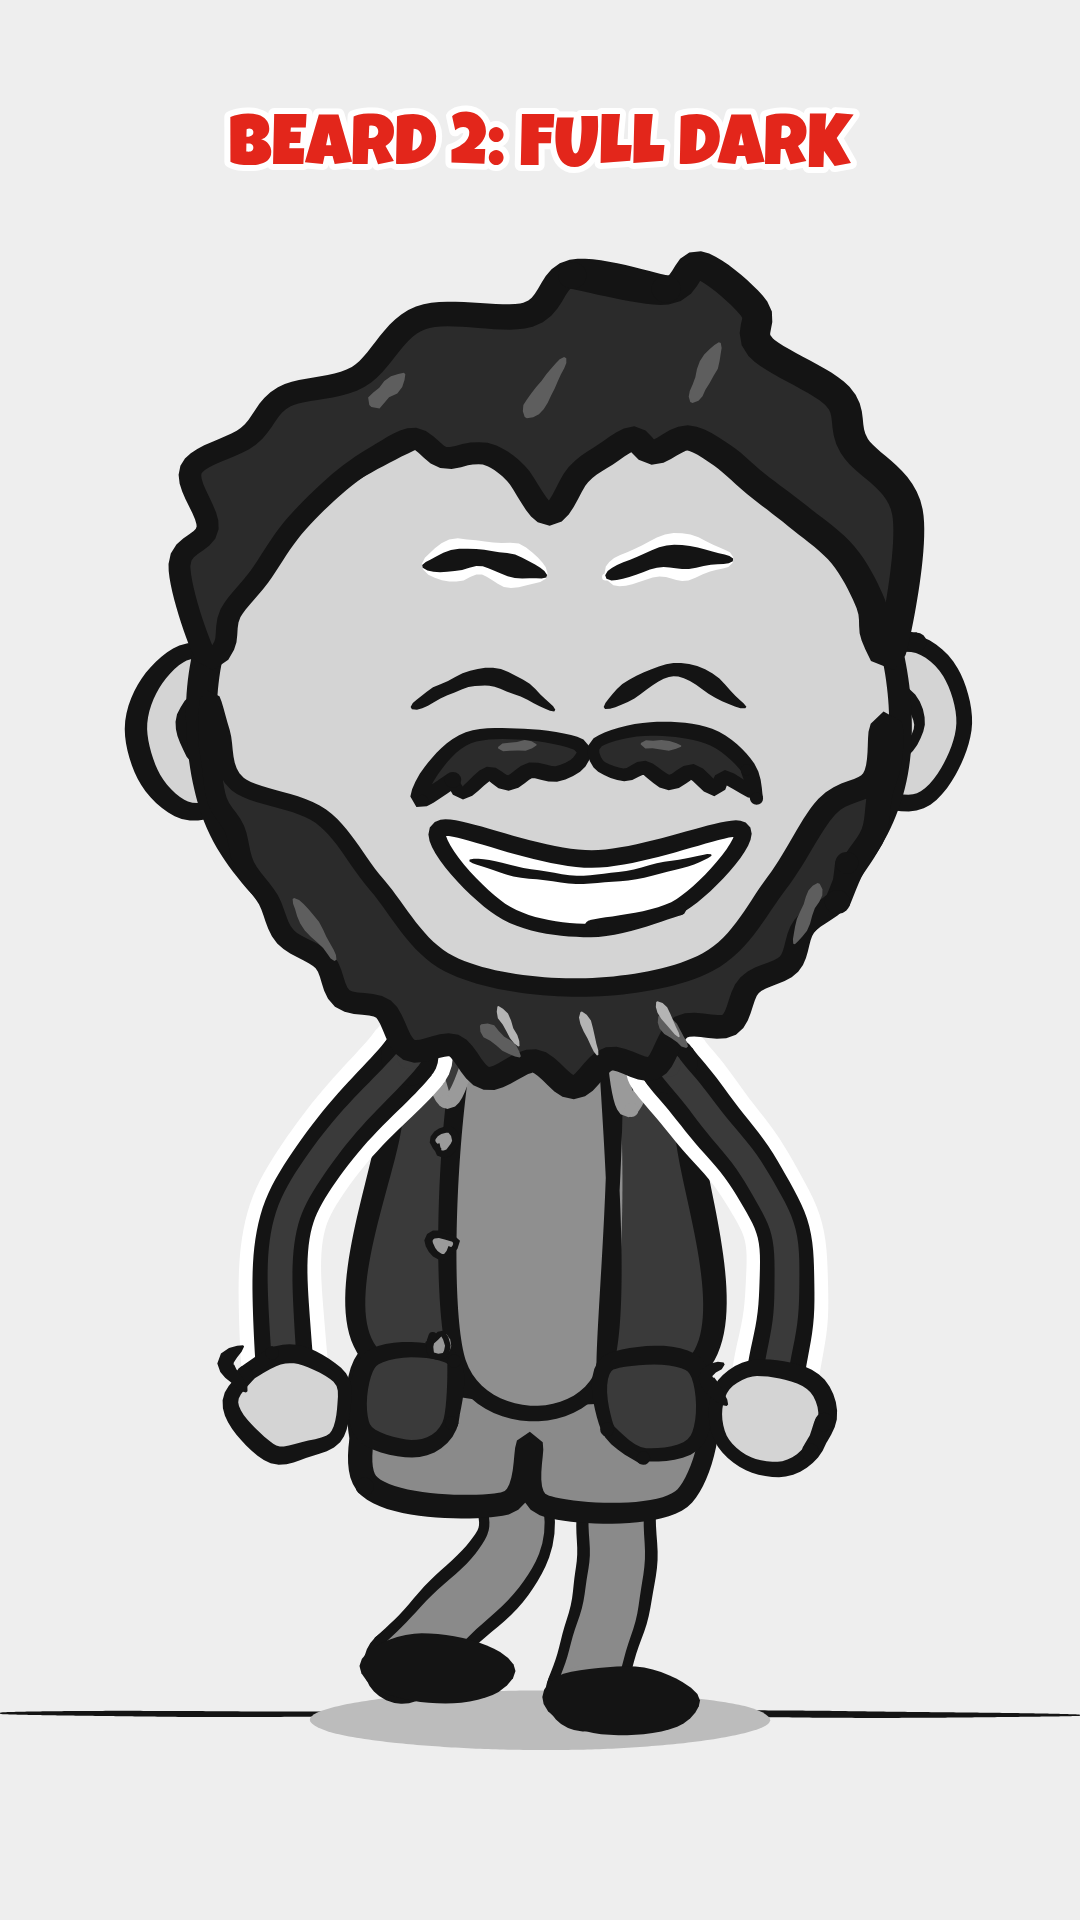
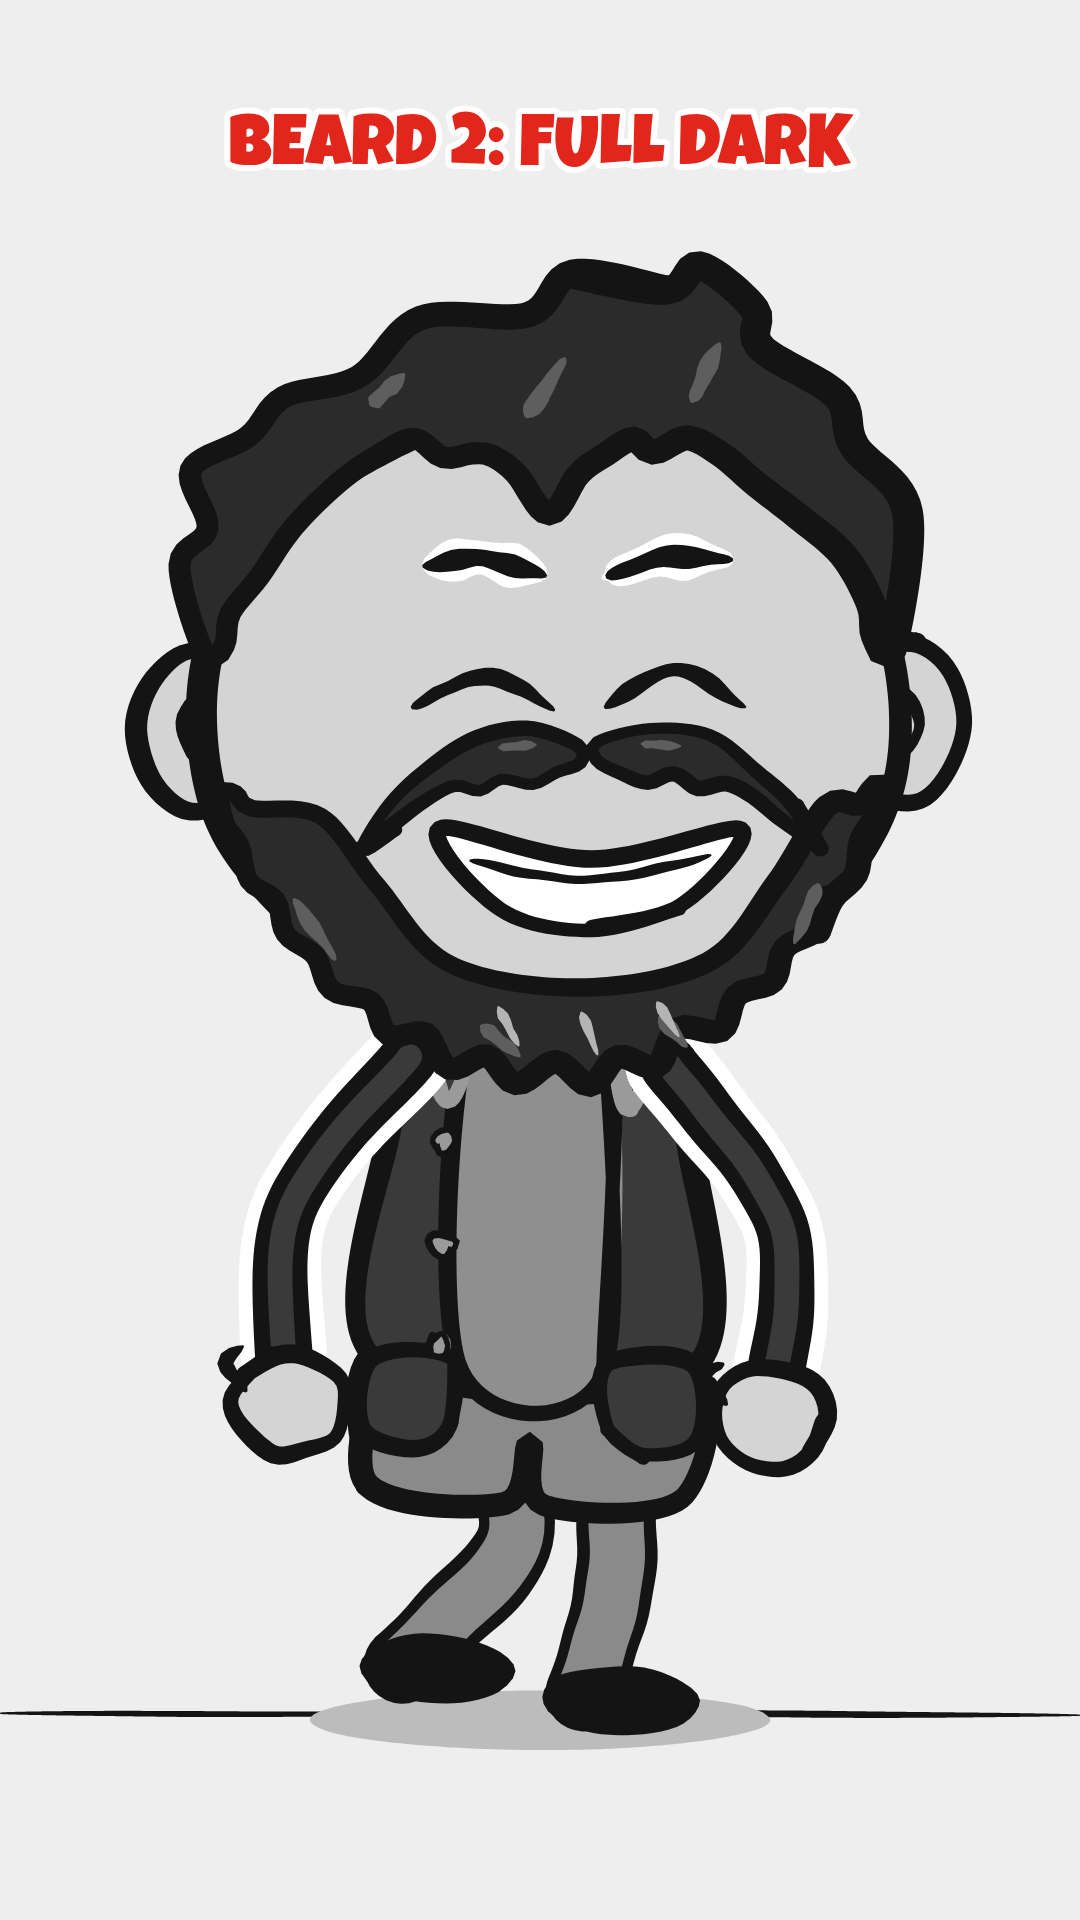
Squeex beard options: review round 2 fixes
Trimmed moustache in the beard's tone with an inked ragged edge; the full
dark beard starts below the ears and its moustache joins it at the mouth
corners, with a lip line over a shocked gape.

Claude-Session: https://claude.ai/code/session_01RKmGcx8q1V1rbfKyx6bNrn

diff --git a/web/cameos.js b/web/cameos.js
@@ -1208,7 +1208,7 @@ const Cameos = (() => {
 
   // 1. Trimmed: mid-grey, stippled, a crisp cheek line; the moustache drops at
   // the corners to join the beard beside the mouth.
-  const TRIM = '#6e6e6e', TRIM_DOT = '#3a3a3a';
+  const TRIM = '#5e5e5e', TRIM_DOT = '#2e2e2e';
   const trimShape = () => hu([...jawEdge(1.0, 0.035), [-0.95, 0.06], [-0.86, 0.28], [-0.62, 0.4], [-0.5, 0.62], [-0.28, 0.78],
                               [0.06, 0.82], [0.4, 0.78], [0.6, 0.62], [0.72, 0.4], [0.9, 0.28], [0.96, 0.06]]);
   const stipple = (ctx, x0, x1, y0, y1, k0) => {
@@ -1227,10 +1227,11 @@ const Cameos = (() => {
   const stacheTrim = (ctx, fx, rage, p) => {
     const up = stacheLift(rage, p);
     const m = [[fx - 84, 60], [fx - 62, 30], [fx - 22, 20], [fx + 4, 25], [fx + 32, 20], [fx + 70, 30], [fx + 90, 60],
-               [fx + 74, 52], [fx + 52, 38], [fx + 4, 38], [fx - 44, 38], [fx - 66, 52]].map(([x, y]) => [x, y - up]);
+               [fx + 76, 50], [fx + 66, 54], [fx + 54, 40], [fx + 40, 44], [fx + 26, 37], [fx + 12, 41], [fx + 4, 36], [fx - 6, 41],
+               [fx - 20, 37], [fx - 34, 44], [fx - 48, 40], [fx - 60, 54], [fx - 70, 50]].map(([x, y]) => [x, y - up]);
     fill(ctx, m, TRIM, 1);
     ctx.save(); clipTo(ctx, m); stipple(ctx, fx - 90, fx + 96, 14 - up, 62 - up, 77); ctx.restore();
-    stroke(ctx, m.slice(0, 7), { w: 6, taper0: 0.4, taper1: 0.4 });
+    outline(ctx, m, { w: 6 });
   };
 
   // 2. Full dark: as dark and curly as his hair, rounding out below the chin,
@@ -1238,10 +1239,10 @@ const Cameos = (() => {
   const fullOuter = () => {
     const pts = [];
     for (let i = 0; i <= 14; i++) {   // curl bumps, like the hair
-      const a = Math.PI * (0.02 + 1.0 * i / 14);
+      const a = Math.PI * (0.08 + 0.84 * i / 14);
       for (const f of [0, 0.5]) {
         if (i === 14 && f) break;
-        const aa = a + f * Math.PI * 1.0 / 14, d2 = Math.max(0, Math.sin(aa));
+        const aa = a + f * Math.PI * 0.84 / 14, d2 = Math.max(0, Math.sin(aa));
         const r = 0.98 + (f ? 0.08 * d2 * d2 : 0);   // curls only below the cheeks, the sides stay on the head outline
         pts.push([Math.cos(aa) * r, Math.sin(aa) * (r + 0.16 * d2 * d2)]);
       }
@@ -1250,8 +1251,8 @@ const Cameos = (() => {
   };
   const beardFull = ctx => {
     const outer = fullOuter();
-    const inner = [[-0.94, 0.06], [-0.9, 0.22], [-0.66, 0.32], [-0.5, 0.56], [-0.3, 0.82], [0.08, 0.9], [0.44, 0.82],
-                   [0.64, 0.56], [0.78, 0.32], [0.92, 0.22], [0.95, 0.06]];
+    const inner = [[-0.9, 0.26], [-0.86, 0.3], [-0.66, 0.32], [-0.5, 0.56], [-0.3, 0.82], [0.08, 0.9], [0.44, 0.82],
+                   [0.64, 0.56], [0.78, 0.32], [0.88, 0.3], [0.92, 0.26]];
     const sh = hu([...outer, ...inner]);
     fill(ctx, sh, SQ_HAIR, 1);
     outline(ctx, sh, { w: 9 });
@@ -1262,13 +1263,15 @@ const Cameos = (() => {
   };
 
   // two tapered halves parted in the middle, hair points along the bottom, well
-  // clear of the lip, so the dark never reads as an outline round the mouth
+  // clear of the lip; the outer ends drop to join the beard beside the mouth.
+  // Over a shocked gape a skin-tone lip line keeps it apart from the dark mouth.
   const stacheFull = (ctx, fx, rage, p) => {
     const up = stacheLift(rage, p);
     for (const sd of [-1, 1]) {
       const X = x => fx + 4 + sd * x;
-      const h = [[X(4), 14], [X(26), 8], [X(50), 12], [X(66), 26], [X(70), 38], [X(58), 30], [X(52), 34], [X(42), 26],
-                 [X(34), 30], [X(24), 24], [X(14), 27], [X(4), 22]].map(([x, y]) => [x, y - up]);
+      const h = [[X(4), 14], [X(26), 8], [X(50), 12], [X(70), 26], [X(86), 42], [X(96), 60], [X(82), 50], [X(68), 38],
+                 [X(56), 32], [X(46), 34], [X(36), 28], [X(24), 31], [X(14), 26], [X(4), 22]].map(([x, y]) => [x, y - up]);
+      if (up < 0) stroke(ctx, h.slice(6).map(([x, y]) => [x, y + 7]), { w: 9, color: SQ_SKIN, taper0: 0, taper1: 0, minW: 1 });
       fill(ctx, h, SQ_HAIR, 1);
       outline(ctx, h, { w: 6 });
       stroke(ctx, [[X(22), 15 - up], [X(38), 15 - up]], { w: 4, color: SQ_LINE });
